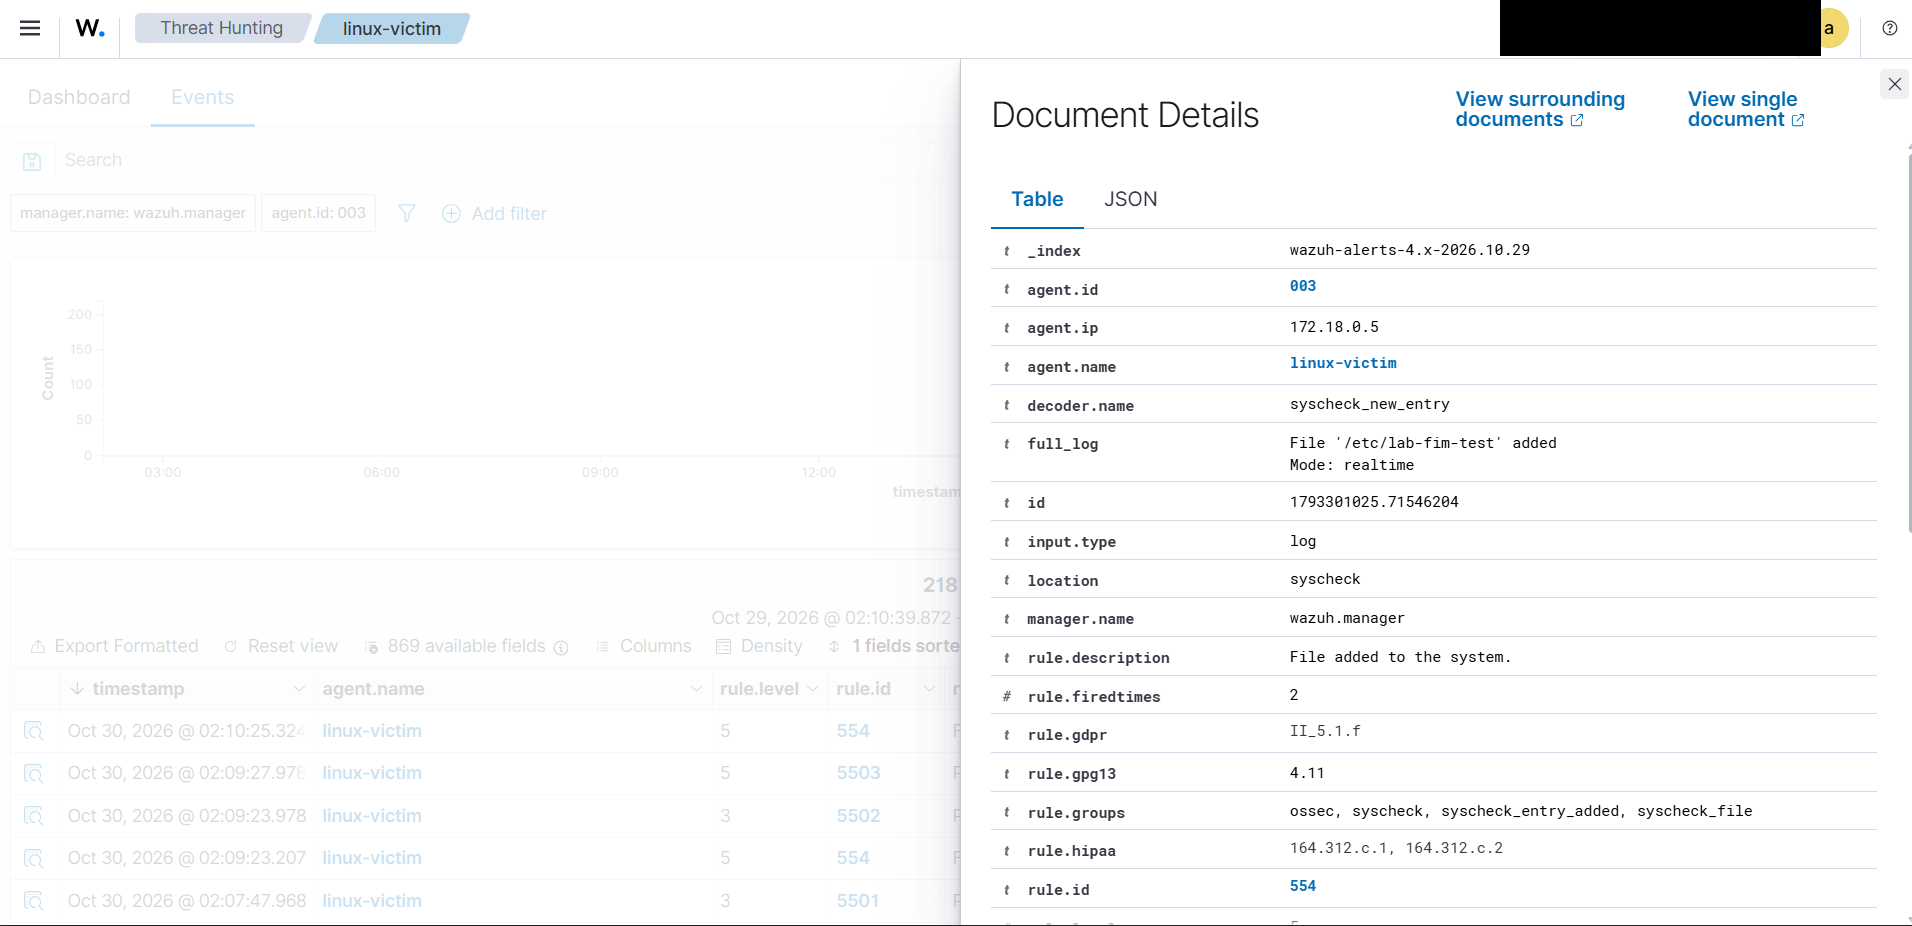
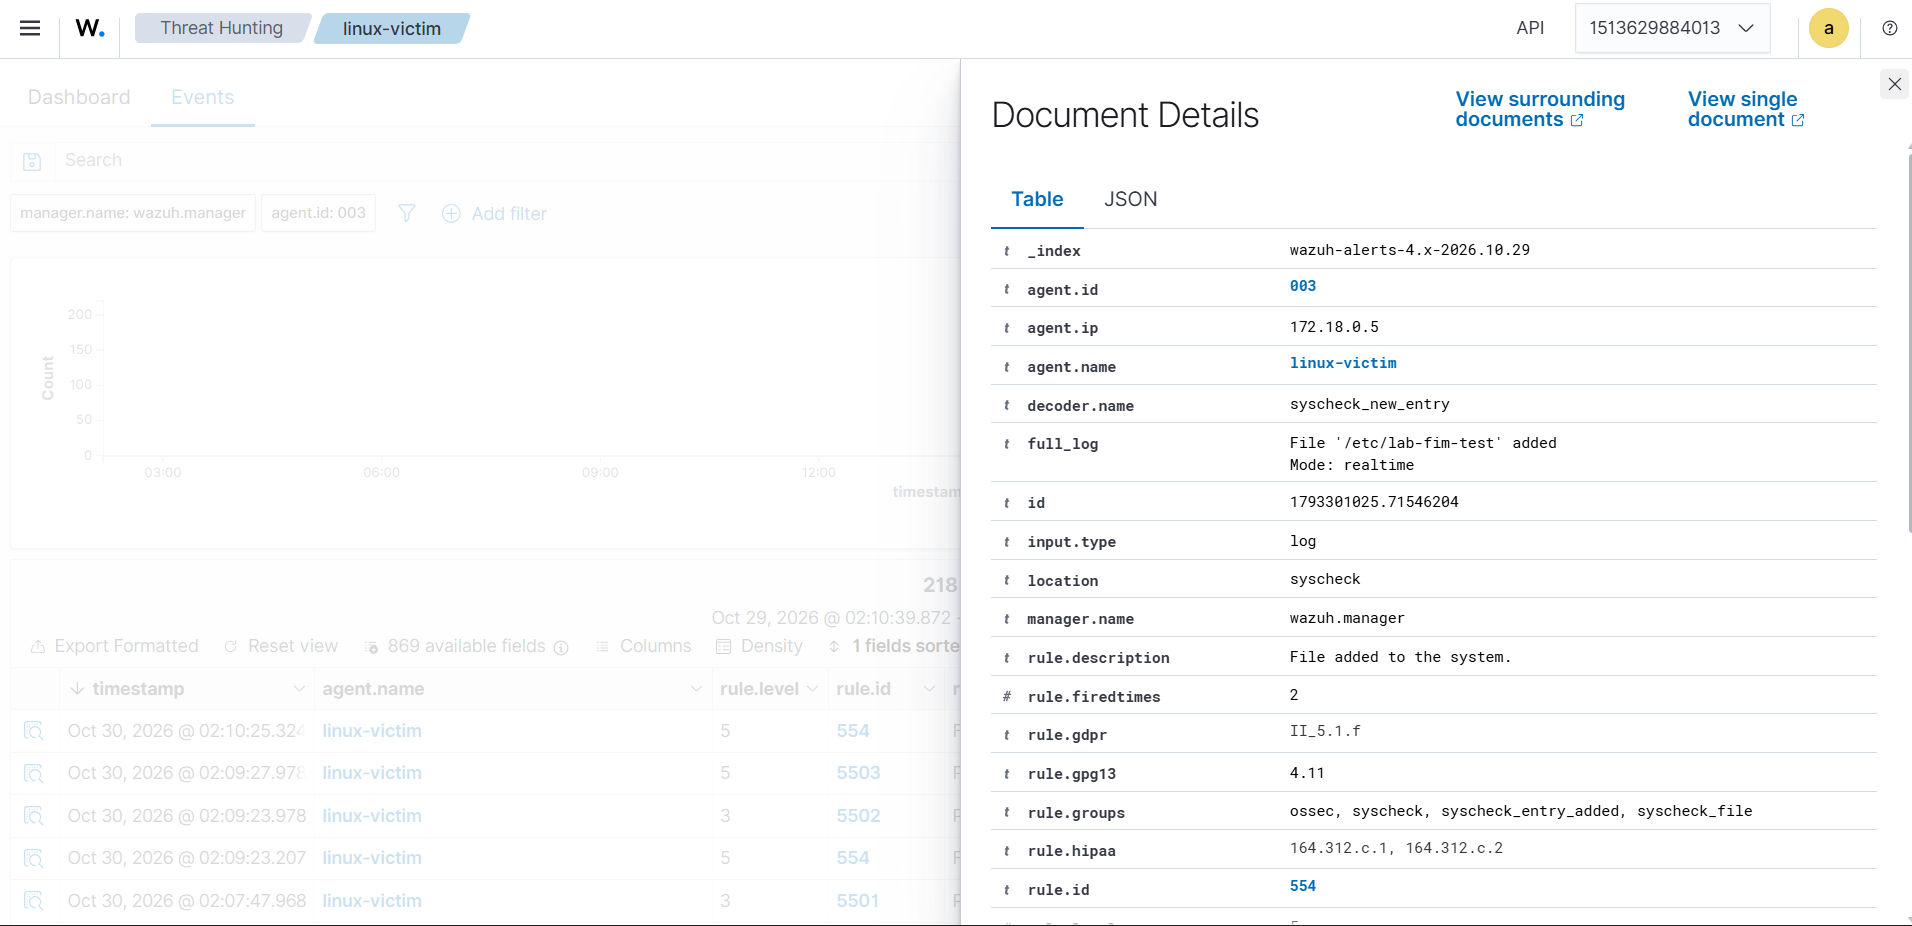
Fix screenshot filenames and minimal redaction

Changed region(s): [[0.7714, 0.0, 0.9566, 0.0605]]

diff --git a/README.md b/README.md
@@ -12,7 +12,7 @@ Lab keamanan defensif mandiri di laptop pribadi: Wazuh SIEM di WSL2/Docker, endp
 
 ## Screenshots
 
-> Screenshot sudah diredaksi untuk menghapus hostname, username, dan API ID.
+> Screenshot sudah diredaksi untuk menghapus hostname dan username.
 
 ### Dashboard overview
 ![Dashboard overview](docs/screenshots/dashboard.png)
@@ -38,7 +38,7 @@ Lab keamanan defensif mandiri di laptop pribadi: Wazuh SIEM di WSL2/Docker, endp
 ## Privasi
 
 - Hostname, username, dan nama agent Windows sudah disamarkan (`LAB-WIN`, `analyst`).
-- Screenshot di `docs/screenshots/` sudah diredaksi (hostname, username, API ID).
+- Screenshot di `docs/screenshots/` sudah diredaksi (hostname, username).
 - Original screenshot mentah disimpan **di luar repo**.
 - Credential lab diganti placeholder; secret lokal ada di `.env` yang di-gitignore.
 - Jangan commit `.env`, `client.keys`, `*.pem`, atau screenshot original.

diff --git a/docs/06-LAB-JOURNAL.md b/docs/06-LAB-JOURNAL.md
@@ -394,6 +394,20 @@ Jurnal kronologis seluruh tindakan teknis pada home lab. Setiap entri mencatat w
 - **Status:** Selesai
 - **Tindak lanjut:** Gunakan wording “volume alert” vs “alert yang ditriase” secara konsisten.
 
+### 19:05 WIB — Perbaiki nama file screenshot dan README
+
+- **Fase:** Dokumentasi
+- **Aksi:** Menyelaraskan nama file screenshot dengan link README dan mengurangi redaksi berlebihan.
+- **Perubahan:**
+  - `2agent windows and linux.png` → `agents-active.png`
+  - `syscheck linux.png` → `linux-fim.png`
+  - `sysmon2.png` → `sysmon-process.png`
+  - `4625.png` → `alert-4625.png`
+  - `92213.png` → `false-positive-92213.png`
+  - API ID dibiarkan terlihat; hanya hostname/username yang disamarkan.
+- **Status:** Selesai
+- **Tindak lanjut:** Push update README.
+
 ---
 
 ## Template Entri
